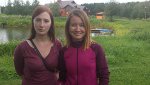
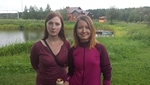
Добавлена фотка с улыбающейся Настей

diff --git a/html/20150814_3_02.html b/html/20150814_3_02.html
@@ -1,0 +1,45 @@
+<!DOCTYPE html>
+<html>
+
+<head>
+    <meta charset="utf-8">
+    <meta name="viewport" content="width=device-width, initial-scale=1">
+    <link rel="stylesheet" href="http://maxcdn.bootstrapcdn.com/bootstrap/3.3.5/css/bootstrap.min.css">
+    <link rel="stylesheet" type="text/css" href="../mywork.css">
+    <title>myWork: Настя и Татьяна на фоне красивого пейзажа (Настя улыбается)</title>
+</head>
+
+<body>
+    <div class="container">
+        <div class="row">
+            <div class="col-md-8 col-md-offset-2">
+                <header class="page-header">
+                    <p>
+                        <a href="../index.html"><img src="../logo/logo.png" alt="Лого myWork"></a>
+                    </p>
+                </header>
+            </div>
+        </div>
+        <div class="row">
+            <div class="col-md-8 col-md-offset-2">
+                <h1>Настя и Татьяна на фоне красивого пейзажа (Настя улыбается)</h1>
+                <p>
+                    <img src="../photos/20150814_3_02.jpg" class="img-thumbnail">
+                </p>
+            </div>
+        </div>
+        <div class="row">
+            <div class="col-md-8 col-md-offset-2">
+                <div id="disqus_thread"></div>
+            </div>
+        </div>
+    </div>
+    <script type="text/javascript" src="../disqus/disqus1.js"></script>
+    <noscript>
+        Please enable JavaScript to view the
+        <a href="https://disqus.com/?ref_noscript" rel="nofollow">comments powered by Disqus.</a>
+    </noscript>
+</body>
+<script type="text/javascript" src="../disqus/disqus2.js"></script>
+
+</html>

diff --git a/index.html b/index.html
@@ -44,6 +44,11 @@
                         </a>
                     </div>
                     <div class="col-xs-6 col-md-3">
+                        <a href="html/20150814_3_02.html" class="thumbnail">
+                            <img src="thumbnails/20150814_3_02.jpg" alt="Настя и Татьяна на фоне красивого пейзажа (Настя улыбается)">
+                        </a>
+                    </div>
+                    <div class="col-xs-6 col-md-3">
                         <a href="html/20150814_4.html" class="thumbnail">
                             <img src="thumbnails/20150814_4.jpg" alt="Татьяна и Азат недалеко от стола с едой">
                         </a>
